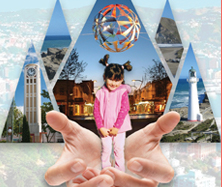
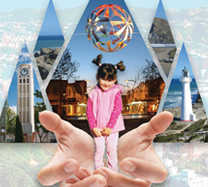
touch ups

diff --git a/Styles.css b/Styles.css
@@ -1,9 +1,5 @@
 @import url('https://fonts.googleapis.com/css?family=Dancing+Script');
 
-div{
-  outline: lime 1px dotted;
-}
-
 body{
     margin:0;
 }
@@ -223,7 +219,7 @@ div.gallery:hover{
 
 div.gallery img{
   width: 100%;
-  height:auto;
+  height: 180px;
 }
 
 .form-back{
